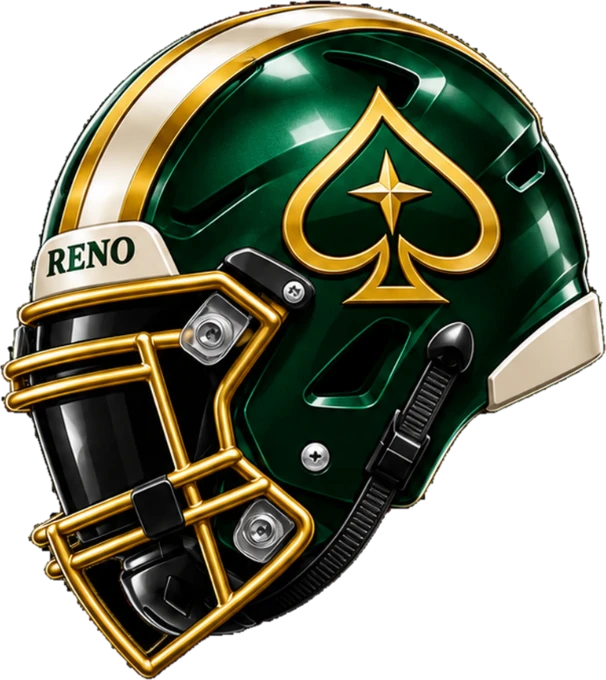
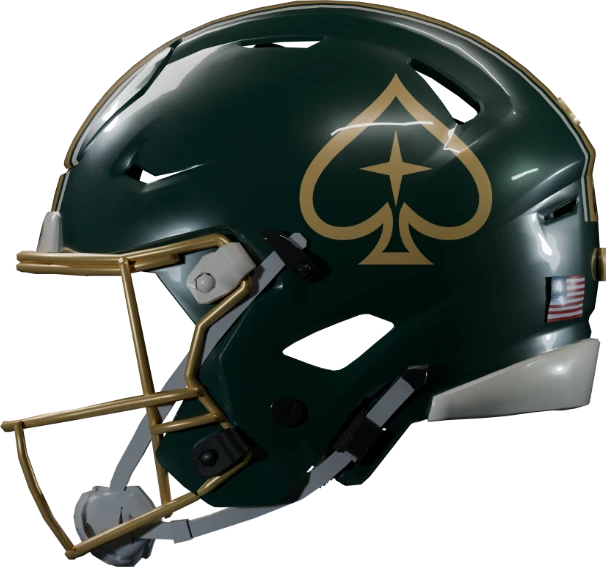
Reno faceoff helmets: SpeedFlex 3D renders; helmet model credit (Exodusks, CC BY 4.0) at the bottom of the Rules page
Claude-Session: https://claude.ai/code/session_01S7LwiiyyHj7iuC9PJU7Hqr

diff --git a/js/rules.js b/js/rules.js
@@ -25,7 +25,8 @@
           <ol>${(meta.toc || []).map(([id, t]) => `<li><a href="#${esc(id)}">${esc(t)}</a></li>`).join('')}</ol></nav>
         <article class="rb-body">${box.innerHTML}</article>
       </section>
-      <section class="panel" id="scoring-changes"></section>`;
+      <section class="panel" id="scoring-changes"></section>
+      ${((M && M.league.credits) || []).length ? `<p class="footnote rb-credits">Credits: ${M.league.credits.map(c => `${esc(c.text)} <a href="${esc(c.source)}" target="_blank" rel="noopener">Source</a> · <a href="${esc(c.licenseUrl)}" target="_blank" rel="noopener">${esc(c.license)}</a>`).join(' ')}</p>` : ''}`;
     // The dated record of scoring changes (13-2-3), saved by the commissioner on the Account page.
     const log = ((M && M.scoringLog) || []).slice().sort((a, b) => b.at - a.at), sc = document.getElementById('scoring-changes');
     if (!log.length) sc.remove();

diff --git a/rules.html b/rules.html
@@ -18,7 +18,7 @@
 <meta name="apple-mobile-web-app-title" content="Blitz Hub">
 <meta name="blitz-notes" content="js/notes.js?v=acaa1890">
 <meta name="blitz-ledger" content="js/ledger.js?v=86342faa">
-<meta name="blitz-version" content="c25cd74421">
+<meta name="blitz-version" content="76820e1c89">
 <meta name="blitz-moves" content="js/moves.js?v=6f98d9b2">
 <meta name="blitz-trades" content="js/trades.js?v=5da41d1a">
 </head>
@@ -42,7 +42,7 @@
 <script src="js/player.js?v=e50a724a"></script>
 <script src="js/nfl.js?v=d686f53f"></script>
 <script src="js/firebase-config.js?v=411995c0"></script>
-<script src="js/rules.js?v=4a42cd4f"></script>
+<script src="js/rules.js?v=327cf7d3"></script>
 <script>if ('serviceWorker' in navigator && location.protocol === 'https:' && window.top === window) navigator.serviceWorker.register('sw.js').catch(() => {});</script>
 </body>
 </html>

diff --git a/account.html b/account.html
@@ -18,7 +18,7 @@
 <meta name="apple-mobile-web-app-title" content="Blitz Hub">
 <meta name="blitz-notes" content="js/notes.js?v=acaa1890">
 <meta name="blitz-ledger" content="js/ledger.js?v=86342faa">
-<meta name="blitz-version" content="c25cd74421">
+<meta name="blitz-version" content="76820e1c89">
 <meta name="blitz-moves" content="js/moves.js?v=6f98d9b2">
 <meta name="blitz-trades" content="js/trades.js?v=5da41d1a">
 </head>

diff --git a/almanac.html b/almanac.html
@@ -18,7 +18,7 @@
 <meta name="apple-mobile-web-app-title" content="Blitz Hub">
 <meta name="blitz-notes" content="js/notes.js?v=acaa1890">
 <meta name="blitz-ledger" content="js/ledger.js?v=86342faa">
-<meta name="blitz-version" content="c25cd74421">
+<meta name="blitz-version" content="76820e1c89">
 <meta name="blitz-moves" content="js/moves.js?v=6f98d9b2">
 <meta name="blitz-trades" content="js/trades.js?v=5da41d1a">
 </head>

diff --git a/awards.html b/awards.html
@@ -18,7 +18,7 @@
 <meta name="apple-mobile-web-app-title" content="Blitz Hub">
 <meta name="blitz-notes" content="js/notes.js?v=acaa1890">
 <meta name="blitz-ledger" content="js/ledger.js?v=86342faa">
-<meta name="blitz-version" content="c25cd74421">
+<meta name="blitz-version" content="76820e1c89">
 <meta name="blitz-moves" content="js/moves.js?v=6f98d9b2">
 <meta name="blitz-trades" content="js/trades.js?v=5da41d1a">
 </head>

diff --git a/draft.html b/draft.html
@@ -18,7 +18,7 @@
 <meta name="apple-mobile-web-app-title" content="Blitz Hub">
 <meta name="blitz-notes" content="js/notes.js?v=acaa1890">
 <meta name="blitz-ledger" content="js/ledger.js?v=86342faa">
-<meta name="blitz-version" content="c25cd74421">
+<meta name="blitz-version" content="76820e1c89">
 <meta name="blitz-moves" content="js/moves.js?v=6f98d9b2">
 <meta name="blitz-trades" content="js/trades.js?v=5da41d1a">
 </head>

diff --git a/draftroom.html b/draftroom.html
@@ -18,7 +18,7 @@
 <meta name="apple-mobile-web-app-title" content="Blitz Hub">
 <meta name="blitz-notes" content="js/notes.js?v=acaa1890">
 <meta name="blitz-ledger" content="js/ledger.js?v=86342faa">
-<meta name="blitz-version" content="c25cd74421">
+<meta name="blitz-version" content="76820e1c89">
 <meta name="blitz-moves" content="js/moves.js?v=6f98d9b2">
 <meta name="blitz-trades" content="js/trades.js?v=5da41d1a">
 </head>

diff --git a/index.html b/index.html
@@ -18,7 +18,7 @@
 <meta name="apple-mobile-web-app-title" content="Blitz Hub">
 <meta name="blitz-notes" content="js/notes.js?v=acaa1890">
 <meta name="blitz-ledger" content="js/ledger.js?v=86342faa">
-<meta name="blitz-version" content="c25cd74421">
+<meta name="blitz-version" content="76820e1c89">
 <meta name="blitz-moves" content="js/moves.js?v=6f98d9b2">
 <meta name="blitz-trades" content="js/trades.js?v=5da41d1a">
 </head>

diff --git a/map.html b/map.html
@@ -18,7 +18,7 @@
 <meta name="apple-mobile-web-app-title" content="Blitz Hub">
 <meta name="blitz-notes" content="js/notes.js?v=acaa1890">
 <meta name="blitz-ledger" content="js/ledger.js?v=86342faa">
-<meta name="blitz-version" content="c25cd74421">
+<meta name="blitz-version" content="76820e1c89">
 <meta name="blitz-moves" content="js/moves.js?v=6f98d9b2">
 <meta name="blitz-trades" content="js/trades.js?v=5da41d1a">
 </head>

diff --git a/matchup.html b/matchup.html
@@ -18,7 +18,7 @@
 <meta name="apple-mobile-web-app-title" content="Blitz Hub">
 <meta name="blitz-notes" content="js/notes.js?v=acaa1890">
 <meta name="blitz-ledger" content="js/ledger.js?v=86342faa">
-<meta name="blitz-version" content="c25cd74421">
+<meta name="blitz-version" content="76820e1c89">
 <meta name="blitz-moves" content="js/moves.js?v=6f98d9b2">
 <meta name="blitz-trades" content="js/trades.js?v=5da41d1a">
 </head>

diff --git a/network.html b/network.html
@@ -18,7 +18,7 @@
 <meta name="apple-mobile-web-app-title" content="Blitz Hub">
 <meta name="blitz-notes" content="js/notes.js?v=acaa1890">
 <meta name="blitz-ledger" content="js/ledger.js?v=86342faa">
-<meta name="blitz-version" content="c25cd74421">
+<meta name="blitz-version" content="76820e1c89">
 <meta name="blitz-moves" content="js/moves.js?v=6f98d9b2">
 <meta name="blitz-trades" content="js/trades.js?v=5da41d1a">
 </head>

diff --git a/schedule.html b/schedule.html
@@ -18,7 +18,7 @@
 <meta name="apple-mobile-web-app-title" content="Blitz Hub">
 <meta name="blitz-notes" content="js/notes.js?v=acaa1890">
 <meta name="blitz-ledger" content="js/ledger.js?v=86342faa">
-<meta name="blitz-version" content="c25cd74421">
+<meta name="blitz-version" content="76820e1c89">
 <meta name="blitz-moves" content="js/moves.js?v=6f98d9b2">
 <meta name="blitz-trades" content="js/trades.js?v=5da41d1a">
 </head>
